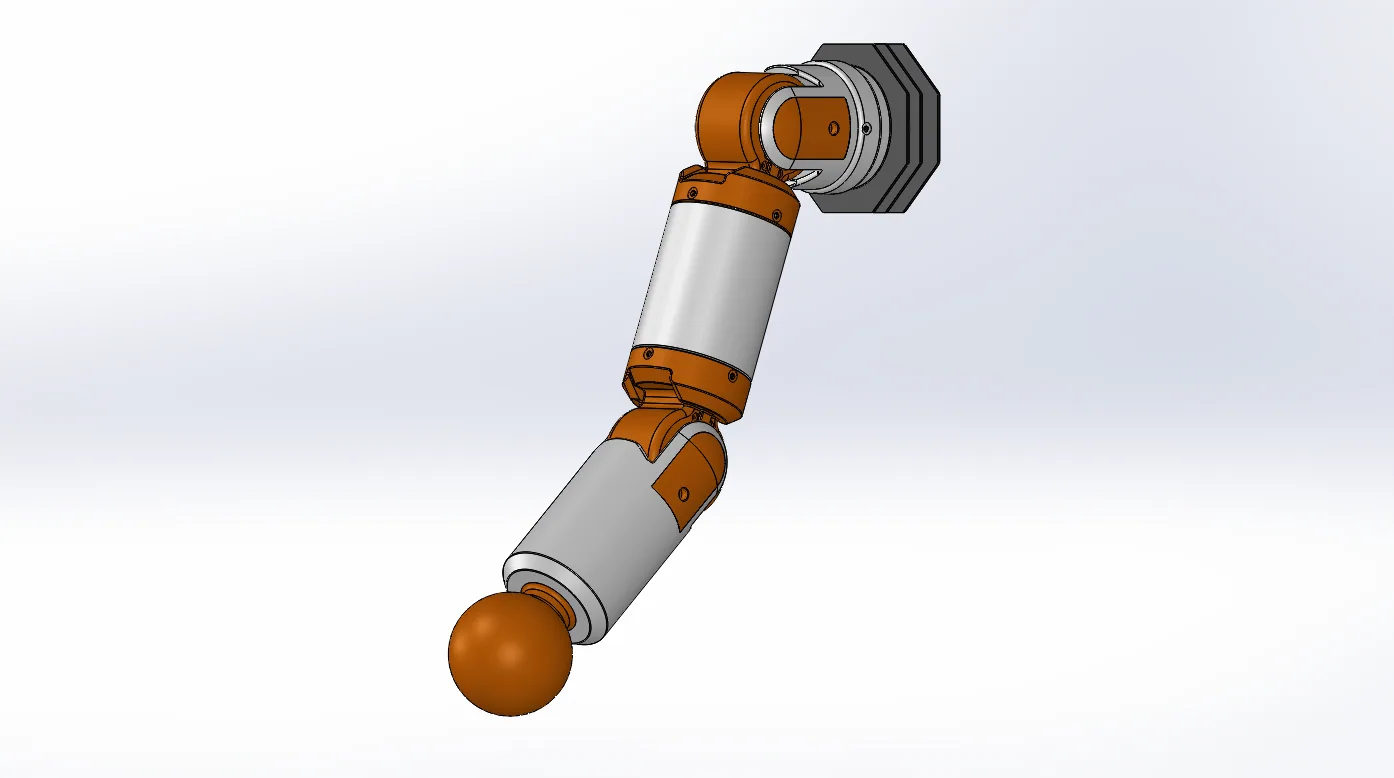
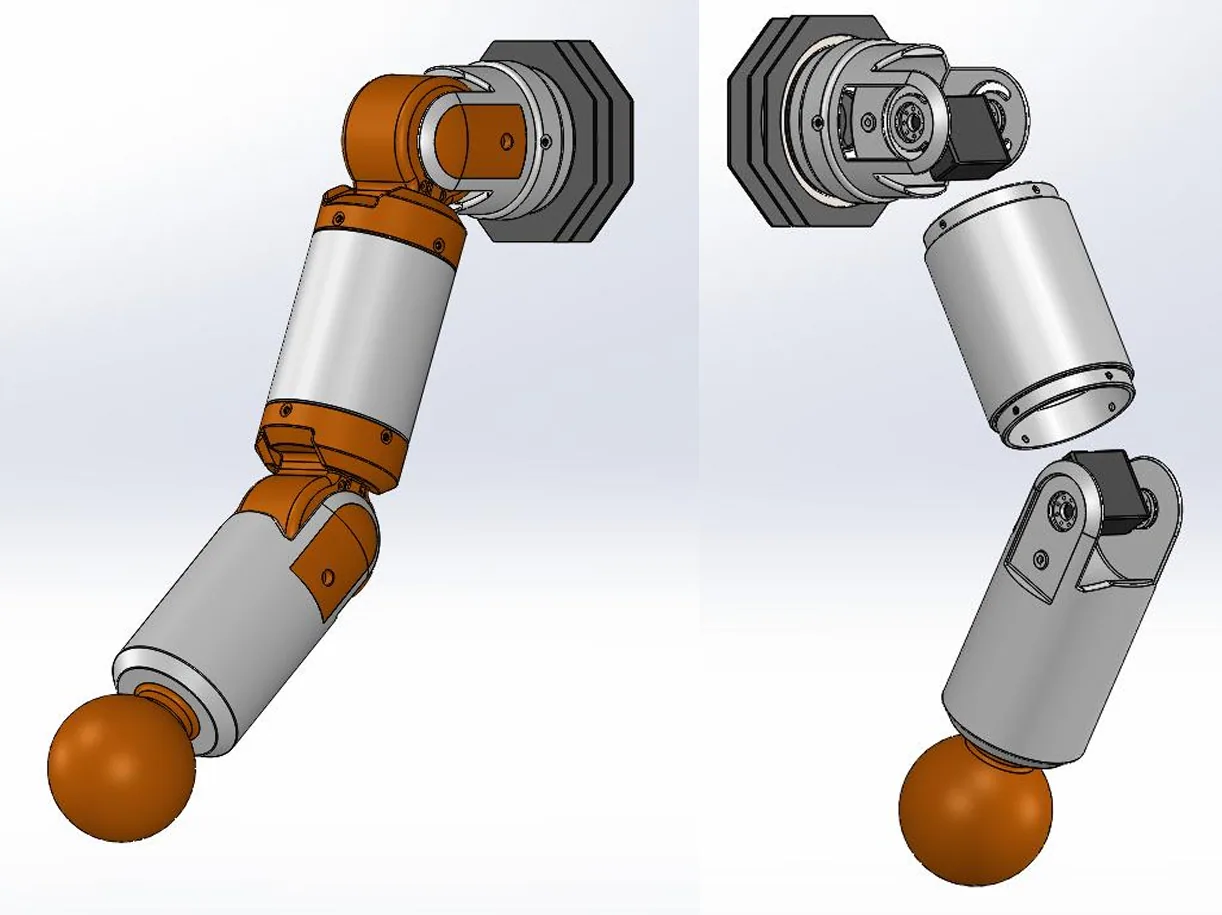
Fix scroll trapping, expand cards by default, refresh robot arm images
Scrolling
- Lenis caches the document height as its scroll limit, so anything that
  grew the page after mount left that limit stale and Lenis clamped to
  the OLD maximum until it re-measured. Opening a work experience card
  therefore froze the page for exactly as long as the expand animation
  ran. useLenis now re-measures on a ResizeObserver over document.body,
  which also covers images arriving and any other late layout change.
- The work experience accordion animated height over 1.0s, and 3.0s for
  CLP Power specifically. That special case was the long freeze. Both now
  use 0.4s, matching ProjectSection.

Carousel
- The wheel handler took whichever axis was larger, so a vertical wheel
  drove the images sideways and preventDefault'd the page. A mouse only
  emits deltaY, so "browse images" and "scroll the page" were the same
  gesture and the carousel always won.
- It also carried data-lenis-prevent, which switches Lenis off entirely
  over the element, and then called lenis.scrollTo() at the boundary to
  imitate page scroll. That simulation was the seam at the handoff.
- Replaced both with a clean handshake. While the carousel has travel it
  claims the event: preventDefault plus event.lenisStopPropagation, which
  Lenis checks and respects. Out of images, it leaves the event alone and
  Lenis scrolls the page with its own momentum. Our listener is on the
  element and Lenis's is on the window, so ours runs first.
[…]

diff --git a/src/components/ui/ImageCarousel.tsx b/src/components/ui/ImageCarousel.tsx
@@ -3,6 +3,10 @@ import { motion, useMotionValue, useSpring } from 'framer-motion';
 import type { PanInfo } from 'framer-motion';
 import { ChevronLeft, ChevronRight } from 'lucide-react';
 import { Skeleton } from '@/components/ui/Skeleton';
+import imageSizes from '@/data/imageSizes.json';
+
+// JSON arrays widen to number[], so index rather than destructure a tuple.
+const SIZES: Record<string, number[]> = imageSizes;
 
 interface SlideImgProps {
   src: string;
@@ -28,6 +32,8 @@ const SlideImg: React.FC<SlideImgProps> = ({ src, alt, className, onClick, curso
         ref={captureImg}
         src={src}
         alt={alt}
+        width={SIZES[src]?.[0]}
+        height={SIZES[src]?.[1]}
         draggable={false}
         loading="lazy"
         decoding="async"
@@ -49,6 +55,15 @@ interface ImageCarouselProps {
 }
 
 const SLIDE_WIDTH_PERCENT = 82;
+type ClaimableWheel = WheelEvent & { lenisStopPropagation?: boolean };
+
+/**
+ * How much of the carousel must be on screen before it may take over the wheel.
+ * Without this, a carousel creeping in at the bottom edge grabs your scroll as you
+ * pass it; the reader should have arrived at it first.
+ */
+const CAPTURE_VISIBILITY = 0.6;
+
 const GAP_PX = 16;
 const SNAP_DELAY_MS =160;
 
@@ -128,6 +143,23 @@ export const ImageCarousel: React.FC<ImageCarouselProps> = ({
   const prev = useCallback(() => setIndex((i) => clamp(i - 1)), [clamp]);
   const goTo = useCallback((i: number) => setIndex(clamp(i)), [clamp]);
 
+  /**
+   * Keyboard navigation for the focused carousel.
+   *
+   * With the wheel limited to horizontal gestures, a mouse user has no wheel path to the
+   * images, so arrows and Home/End matter. Only the keys we handle are intercepted —
+   * Tab and the rest stay with the browser.
+   */
+  const handleKeyDown = useCallback(
+    (e: React.KeyboardEvent) => {
+      if (e.key === 'ArrowLeft') { e.preventDefault(); prev(); }
+      else if (e.key === 'ArrowRight') { e.preventDefault(); next(); }
+      else if (e.key === 'Home') { e.preventDefault(); goTo(0); }
+      else if (e.key === 'End') { e.preventDefault(); goTo(images.length - 1); }
+    },
+    [prev, next, goTo, images.length]
+  );
+
   const scheduleSnap = useCallback(() => {
     if (snapTimerRef.current) clearTimeout(snapTimerRef.current);
     snapTimerRef.current = setTimeout(() => {
@@ -158,6 +190,12 @@ export const ImageCarousel: React.FC<ImageCarouselProps> = ({
       const absY = Math.abs(e.deltaY);
       if (absX < 2 && absY < 2) return;
 
+      // Only take the wheel once the carousel has actually settled on screen.
+      const rect = el.getBoundingClientRect();
+      const viewport = window.innerHeight;
+      const onScreen = Math.min(rect.bottom, viewport) - Math.max(rect.top, 0);
+      if (onScreen / Math.min(rect.height, viewport) < CAPTURE_VISIBILITY) return;
+
       const delta = absX > absY ? e.deltaX : e.deltaY;
       const forward = delta > 0;
 
@@ -169,7 +207,10 @@ export const ImageCarousel: React.FC<ImageCarouselProps> = ({
       const atEnd = currentTarget <= minX + 1;
       const atStart = currentTarget >= maxX - 1;
 
-      // At boundary + scrolling in that direction → hand off to Lenis so page scroll stays smooth
+      // Out of images in this direction: hand the gesture straight back. Leaving the
+      // event untouched lets it bubble to Lenis, which scrolls the page with its own
+      // momentum — the previous version called lenis.scrollTo() here to fake that, and
+      // the seam was the jerk you felt when a carousel ran out.
       if ((forward && atEnd) || (!forward && atStart)) {
         if (snapTimerRef.current) clearTimeout(snapTimerRef.current);
         // Ensure the boundary slide is marked active even if the snap never fired
@@ -177,19 +218,12 @@ export const ImageCarousel: React.FC<ImageCarouselProps> = ({
         if (indexRef.current !== boundaryIdx) {
           setIndex(boundaryIdx);
         }
-        const lenis = window.__lenis;
-        if (lenis) {
-          e.preventDefault();
-          lenis.scrollTo(lenis.scroll + delta, {
-            immediate: false,
-            force: true,
-            duration: 0.35,
-          });
-        }
         return;
       }
 
+      // Claim the gesture: block the native scroll, and flag the event so Lenis skips it.
       e.preventDefault();
+      (e as ClaimableWheel).lenisStopPropagation = true;
 
       // Scale wheel delta — matches page scroll momentum
       const scaled = delta * 0.85;
@@ -245,8 +279,12 @@ export const ImageCarousel: React.FC<ImageCarouselProps> = ({
   return (
     <div
       ref={containerRef}
-      data-lenis-prevent
-      className={`relative ${heightClass} rounded-sm overflow-hidden select-none`}
+      role="group"
+      aria-roledescription="carousel"
+      aria-label={`${alt} — ${images.length} images`}
+      tabIndex={0}
+      onKeyDown={handleKeyDown}
+      className={`relative ${heightClass} rounded-sm overflow-hidden select-none outline-none focus-visible:ring-2 focus-visible:ring-cyan/60`}
     >
       <motion.div
         className="absolute inset-y-0 left-0 flex items-center touch-pan-y"

diff --git a/src/components/ProjectSection.tsx b/src/components/ProjectSection.tsx
@@ -16,31 +16,33 @@ interface ProjectSectionProps {
   title: string;
   icon: LucideIcon;
   projects: Project[];
-  /** Expanded on mount. Defaults to the first project in the list. */
-  defaultOpenSlug?: string;
+  /** Collapsed on mount instead of expanded. Nothing passes this today. */
+  collapsedSlugs?: string[];
   /** Stagger the section header in, for sections below the first on a page. */
   headerDelay?: number;
 }
 
 /**
- * A titled, collapsible list of projects — the body of every category page.
+ * A titled list of projects — the body of every category page.
  *
- * Cards are an accordion rather than always expanded: a collapsed card never mounts
- * its ProjectImageGrid, so a ten-project page issues no image requests until the
- * reader actually opens something.
+ * Every card starts expanded, so the work is visible without hunting for it. Cards stay
+ * collapsible for anyone skimming a long list, but nothing is hidden by default.
+ *
+ * This costs little: OptimizedImage is `loading="lazy"` with intrinsic dimensions, so an
+ * expanded-but-offscreen card reserves its layout without fetching anything. The images
+ * download as the reader scrolls to them either way.
  */
 export const ProjectSection: React.FC<ProjectSectionProps> = ({
   id,
   title,
   icon: Icon,
   projects,
-  defaultOpenSlug,
+  collapsedSlugs,
   headerDelay = 0,
 }) => {
-  const [expanded, setExpanded] = useState<Record<string, boolean>>(() => {
-    const openSlug = defaultOpenSlug ?? projects[0]?.slug;
-    return openSlug ? { [openSlug]: true } : {};
-  });
+  const [expanded, setExpanded] = useState<Record<string, boolean>>(() =>
+    Object.fromEntries(projects.map((p) => [p.slug, !collapsedSlugs?.includes(p.slug)]))
+  );
   const lightbox = useLightbox();
 
   if (projects.length === 0) return null;

diff --git a/src/hooks/useLenis.ts b/src/hooks/useLenis.ts
@@ -23,6 +23,16 @@ export function useLenis() {
     lenisRef.current = lenis;
     window.__lenis = lenis;
 
+    // Lenis caches the document height as its scroll limit. Anything that changes that
+    // height after mount — an accordion expanding, images arriving — leaves the limit
+    // stale, and Lenis clamps scrolling to the OLD maximum until it re-measures. That
+    // reads as the page refusing to scroll for a moment, for exactly as long as the
+    // growth takes. Re-measuring on every height change keeps the limit correct.
+    //
+    // resize() only reads layout, so this cannot feed back into itself.
+    const resizeObserver = new ResizeObserver(() => lenis.resize());
+    resizeObserver.observe(document.body);
+
     // Keep the handle so cleanup can cancel the loop. Without this the callback kept
     // rescheduling itself and calling .raf() on a destroyed instance — which StrictMode
     // makes visible immediately, since it mounts the effect twice.
@@ -35,6 +45,7 @@ export function useLenis() {
 
     return () => {
       cancelAnimationFrame(frame);
+      resizeObserver.disconnect();
       window.__lenis = undefined;
       lenis.destroy();
     };

diff --git a/src/components/sections/WorkExperience.tsx b/src/components/sections/WorkExperience.tsx
@@ -136,13 +136,7 @@ export const WorkExperience: React.FC = () => {
                         initial={{ height: 0, opacity: 0 }}
                         animate={{ height: 'auto', opacity: 1 }}
                         exit={{ height: 0, opacity: 0 }}
-                        transition={{
-                          height: {
-                            duration: work.company === 'CLP Power Hong Kong' ? 3.0 : 1.0,
-                            ease: [0.22, 1, 0.36, 1],
-                          },
-                          opacity: { duration: 0.4, ease: [0.22, 1, 0.36, 1] },
-                        }}
+                        transition={{ duration: 0.4, ease: [0.25, 0.1, 0.25, 1] }}
                         className="overflow-hidden"
                       >
                         <div className="px-5 pb-5 pt-0">

diff --git a/src/index.css b/src/index.css
@@ -236,9 +236,6 @@ html.lenis, html.lenis body {
   scroll-behavior: auto !important;
 }
 
-.lenis.lenis-smooth [data-lenis-prevent] {
-  overscroll-behavior: contain;
-}
 
 .lenis.lenis-stopped {
   overflow: hidden;
